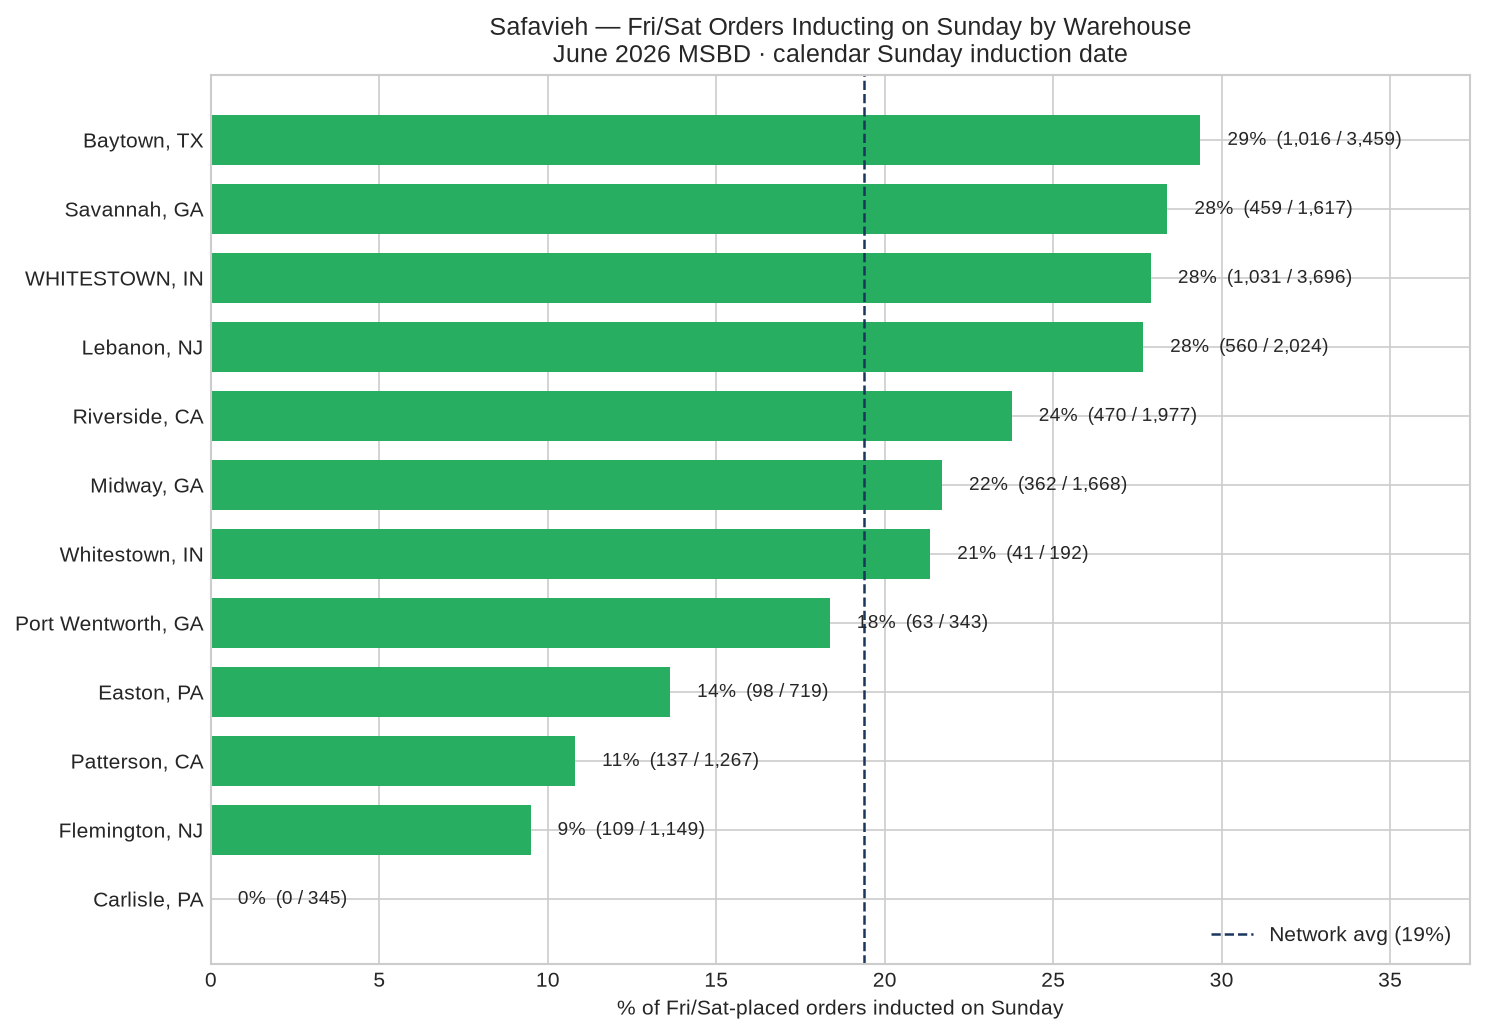
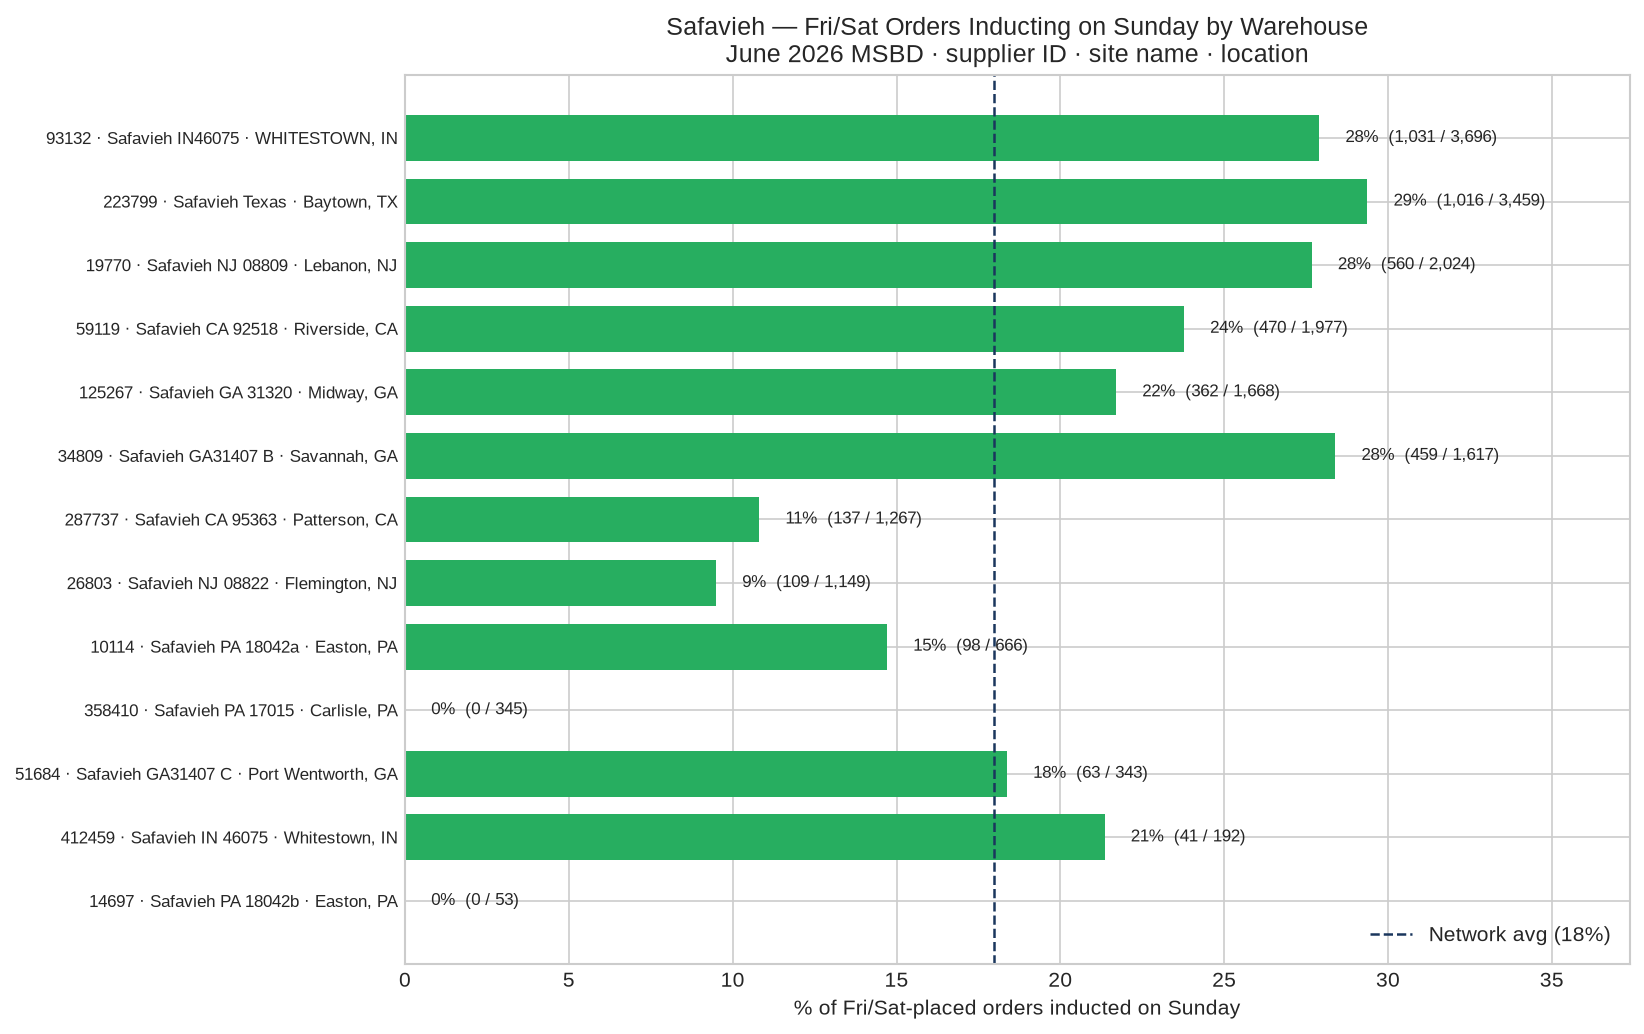
Add supplier_id and su_name to Fri/Sat Sunday induction by warehouse

diff --git a/scripts/analyze_safavieh_charts.py b/scripts/analyze_safavieh_charts.py
@@ -472,38 +472,45 @@ def chart_gain_volume_scatter(df: pd.DataFrame) -> None:
 def chart_fri_sat_sunday_induction_by_wh(df: pd.DataFrame) -> None:
     """Fri/Sat placed orders inducting on Sunday — % and count by warehouse."""
     df = df.copy()
-    df["warehouse"] = df["city_name"].str.strip() + ", " + df["state_name"]
-    df = df.sort_values("pct_fri_sat_induct_sunday", ascending=True)
+    df["label"] = df.apply(
+        lambda r: (
+            f"{int(r['supplier_id'])} · {r['su_name']} · "
+            f"{str(r['city_name']).strip()}, {r['state_name']}"
+        ),
+        axis=1,
+    )
+    df = df.sort_values("fri_sat_vol", ascending=True)
     pct = df["pct_fri_sat_induct_sunday"] * 100
     n_sun = df["fri_sat_induct_sunday"]
     fri_sat = df["fri_sat_vol"]
 
-    fig, ax = plt.subplots(figsize=(10, 7))
+    fig, ax = plt.subplots(figsize=(11, 7))
     colors = [
         GREEN if p >= 0.25 else ORANGE if p >= 0.15 else RED
         for p in pct
     ]
-    bars = ax.barh(df["warehouse"], pct, color=colors, height=0.72)
+    bars = ax.barh(df["label"], pct, color=colors, height=0.72)
     ax.axvline(
-        pct.mean(),
+        (df["pct_fri_sat_induct_sunday"] * 100).mean(),
         color=NAVY,
         linestyle="--",
         linewidth=1.2,
-        label=f"Network avg ({pct.mean():.0f}%)",
+        label=f"Network avg ({(df['pct_fri_sat_induct_sunday'] * 100).mean():.0f}%)",
     )
     ax.set_xlabel("% of Fri/Sat-placed orders inducted on Sunday")
     ax.set_title(
         "Safavieh — Fri/Sat Orders Inducting on Sunday by Warehouse\n"
-        "June 2026 MSBD · calendar Sunday induction date"
+        "June 2026 MSBD · supplier ID · site name · location"
     )
     ax.set_xlim(0, max(pct.max() + 8, 35))
+    ax.tick_params(axis="y", labelsize=8)
     for bar, p, ns, fs in zip(bars, pct, n_sun, fri_sat):
         ax.text(
             bar.get_width() + 0.8,
             bar.get_y() + bar.get_height() / 2,
             f"{p:.0f}%  ({int(ns):,} / {int(fs):,})",
             va="center",
-            fontsize=9,
+            fontsize=8,
         )
     ax.legend(loc="lower right")
     fig.tight_layout()
